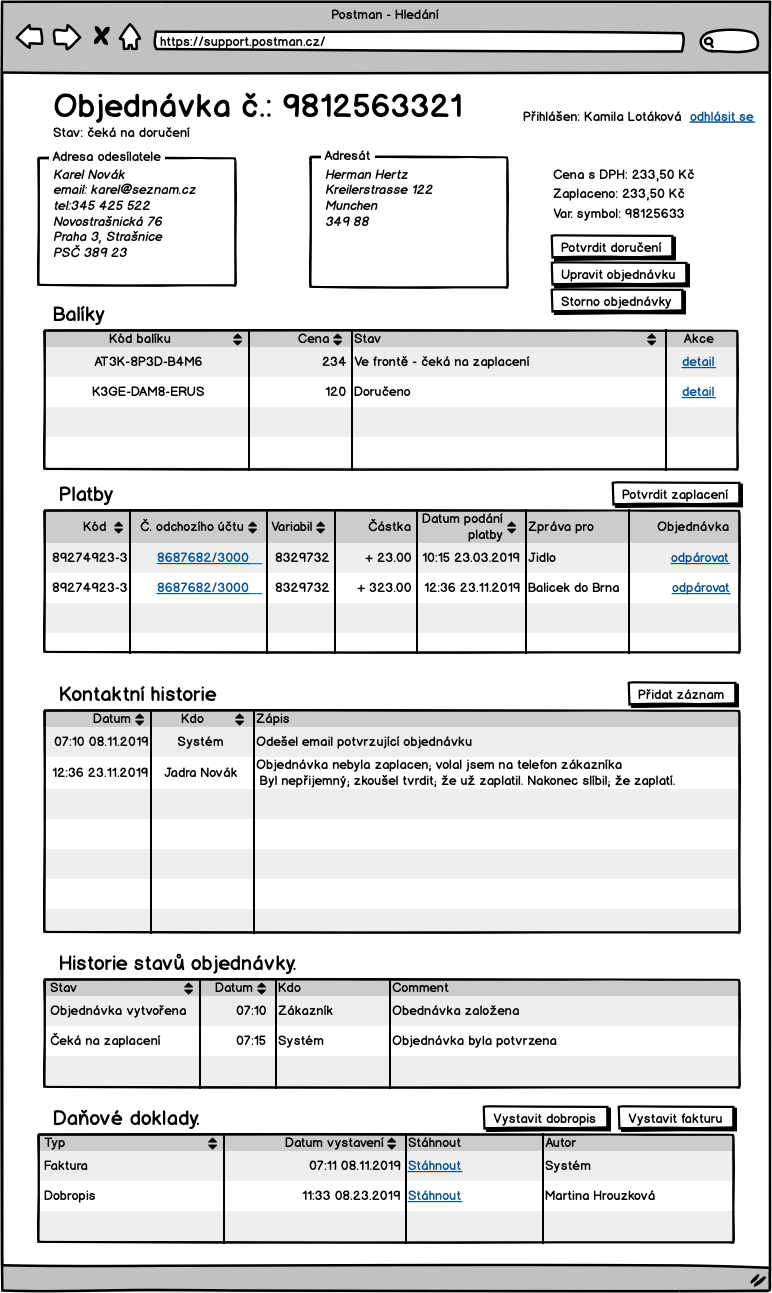
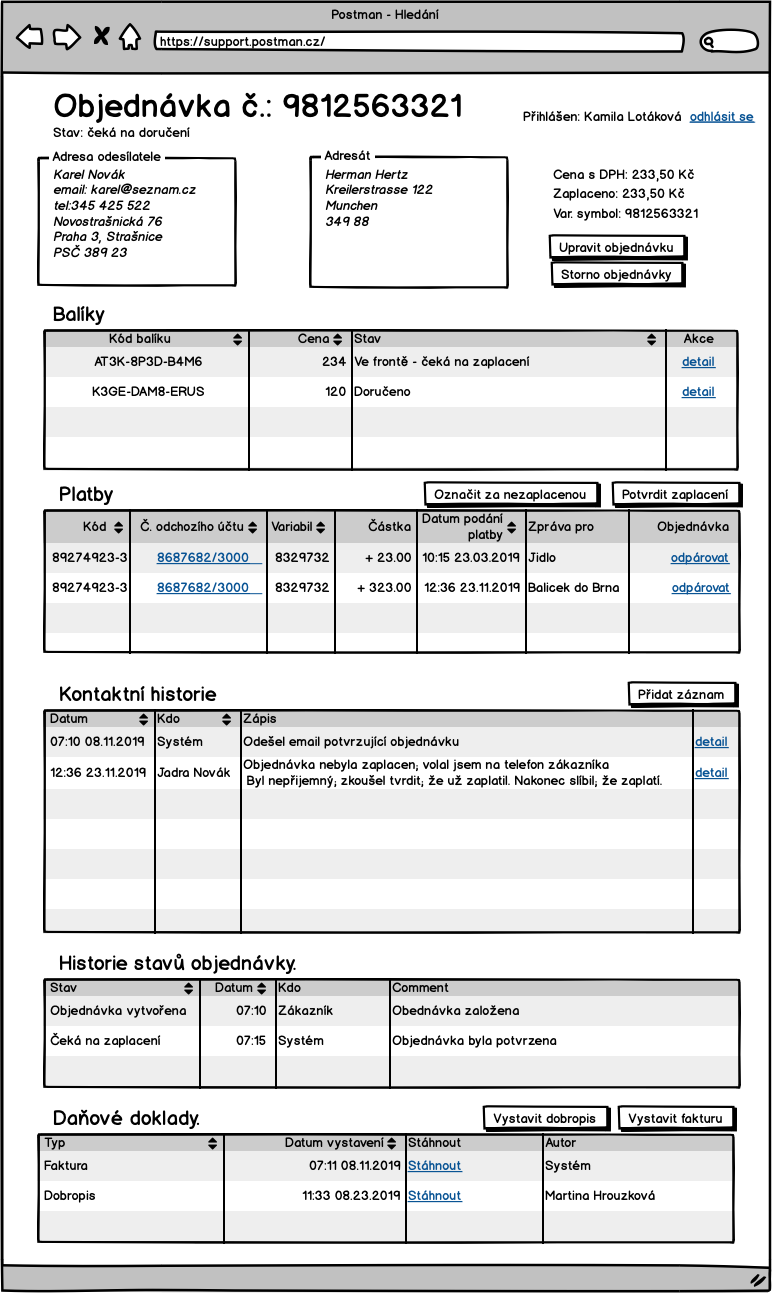
Deployed cf29bd2 with MkDocs version: 1.1

diff --git a/uc-50/index.html b/uc-50/index.html
@@ -791,8 +791,14 @@
 <ol>
 <li>Pracovník si z hlavního rozcestníku zobrazí balíky v chybové frontě.</li>
 <li>Zobrazí se stránka se seznamem balíků ve stavu <code>Chyba</code> a zároveň přiřazených na podpoře.</li>
-<li>Každý balík si pracovník otevře a pokusí se najít řešení.</li>
-<li>Pokud najde řešení, pak balík převede do nového stavu.</li>
+<li>Každý záznam si pracovník otevře.</li>
+<li>Systém zobrazí příslušnou obrazovku podle druhu chyby:<ul>
+<li><a href="../screens/#S-053">Poškozený balík S-053</a>.</li>
+<li>Záznám o tom, že se balík nepodařilo doručit.</li>
+<li>Obecná chyba <a href="../screens/#S-054">při zpracování S-054</a>.</li>
+</ul>
+</li>
+<li>Pracovník podpory se pokusí se najít řešení. Pokud najde řešení, pak balík převede do nového stavu.</li>
 <li>Pokud má pouze doplňující dotaz, nebo je řešení složitější pak to popíše k detailu chyby a tu přiřadí k řešení na dispečera.</li>
 <li>Hotovo. </li>
 </ol>
@@ -801,7 +807,7 @@
 <li>Nespárovaný balík.<ul>
 <li>Balík nemá kód balíku ani správně napsanou adresu odesílate.</li>
 <li>Pracovník se pokusí dohledat odpovídající objednávku třeba podle části adresy odesílatele, nebo porovnat se seznamem zaplacených objednávek bez balíků, nebo porovnat rozměry na objednávce a u nalezeného balíku.</li>
-<li>Pokud to je možné balík napáruje na objednávku.</li>
+<li>Pokud to je možné balík <a href="./#UC-52">napáruje na objednávku UC-52</a>.</li>
 </ul>
 </li>
 <li>Nedoručitelný balík:<ul>
@@ -809,7 +815,7 @@
 </ul>
 </li>
 <li>Poškozený balík:<ul>
-<li>Pracovník zkusí kontaktovat zákazníka a domluví další postup.</li>
+<li>Pracovník zkusí <a href="./#UC-56">vyřešit poškozený balík UC-56</a>.</li>
 </ul>
 </li>
 </ul>
@@ -817,13 +823,11 @@
 <h2 id="uc-56-reseni-poskozeneho-baliku"><a name="UC-56"></a>UC-56 - Řešení poškozeného balíku</h2>
 <p>Předpoklady:</p>
 <ul>
-<li>Pracovník podpory má otevřenou stránku <a href="../screens/#S-05">detailu balíku S-05</a>.</li>
-<li>V seznamu zázkamu o poškození bude jeden nezpracovaný.</li>
+<li>Pracovník podpory má otevřenou stránku <a href="../screens/#S-053">záznamu poškození S-053</a>.</li>
 <li>Balík je ve frontě chyba ve stavu <code>Poškozený balík</code>.</li>
 </ul>
 <p>Kroky:</p>
 <ol>
-<li>Klikne na detail záznamu poškození a zobrazí se mu <a href="../screens/#S-053">S-053</a>.</li>
 <li>Pracovník podle fotek a popisu posoudí míru poškození.</li>
 <li>Pokud uzná za vhodné kontaktuje zákazníka a domluví s ním další postup a výsledek zaznamená do kontaktní historie.</li>
 <li>Když pracovník ví jak postupovat, další postup popíše do pole na stránce <a href="../screens/#S-053">S-053</a>.</li>

diff --git a/screens/index.html b/screens/index.html
@@ -979,18 +979,18 @@
 <p><img alt="Hledání balíků" src="../imgs/s-03-search.png" title="Hledání balíků" /></p>
 <p>Do pole hledat, pujde zadat část libovolné adresy, kód balíku, telefon zákazníka, čast jména, prostě cokoliv. </p>
 <h2 id="s-04-detail-objednavky"><a name="S-04"></a>S-04 - Detail objednávky</h2>
-<p>Obrazovka obsahuje několik samostatných sekcí:</p>
+<p>Stránku může být rozdělená pomocí záložek na více. Pokud odkaz na detail balíku není aktivní znamená to, že balík fyzicky nemáme a ani jsme neměli. Obrazovka obsahuje několik samostatných sekcí:</p>
 <ul>
 <li>Obecné infromace o objednávce</li>
 <li>Platby</li>
 <li>Kontaktní historie</li>
 <li>Historie stavů</li>
 <li>Daňové doklady</li>
+<li>Číslo objednávky a variabilní symbol jsou stejné hodnoty.</li>
 </ul>
-<p>Stránku může být rozdělená pomocí záložek na více. Pokud odkaz na detail balíku není aktivní znamená to, že balík fyzicky nemáme a ani jsme neměli.</p>
 <p><img alt="Detail objednávky" src="../imgs/s-04-order-details.png" title="Detail objednávky" /></p>
-<p>Detaily záznamů kontaktní historie na této stránce nejsou vidět. Pro ně by měla vzniknout nová stránka s jejich seznamem a zde pribýt odkaz na ní.</p>
-<p>Číslo objednávky a variabilní symbol jsou stejné hodnoty.</p>
+<p>Detaily záznamů kontaktní historie na této stránce nejsou vidět. Pro ně by měla vzniknout nová stránka s jejich seznamem a zde přibýt odkaz na ní.</p>
+<p>Tlačítka zde budou zobrazená podel aktuálních možností. Například tlačítko "Označit za nezaplacenou" nebude vidět ve stavu objednávky <code>Nezaplacená</code>.</p>
 <h2 id="s-041-potvrzeni-odparovani-platby"><a name="S-041"></a>S-041 - Potvrzení odpárování platby</h2>
 <p>Pokud pracovník podpory na obrazovce <a href="../imgs/s-04-order-details.png" title="Detail objednávky">S-04 detail objednávky</a> stiskne odpárovat, tak se mu zobrazí potvrzovací dialog:</p>
 <p><img alt="Potvrzení odpárování platby" src="../imgs/s-04-order-details-confirm.png" title="Potvrzení odpárování platby" /></p>

diff --git a/states/index.html b/states/index.html
@@ -606,10 +606,10 @@
 <p>V tomto stavu máme objednávku kompletně ukončenou, všechny doručované balíky jsou také ukončeny a finance vypořádány.</p>
 <p>Přechod do tohoto stavu provede systém automaticky ve chvílí, kdy je poslední balík objednávky v koncovém stavu. Toto musí fungovat i naopak, pokud se později ručním zásahem, nebo procesem nějaký balík přesune do jiného stavu než koncového, pak se musí i objednávka přesunout do stavu <code>Doručovaná</code>.</p>
 <h3 id="dalsi-prechody-zpet">Další přechody zpět</h3>
-<p>Pro zpětné manuální přechody:</p>
+<p>Pro zpětné přechody:</p>
 <ul>
-<li><code>Ukončená</code> --&gt; <code>Doručovaná</code></li>
-<li><code>Doručovaná</code> --&gt; <code>Nezaplacená</code></li>
+<li><code>Ukončená</code> --&gt; <code>Doručovaná</code> - tento přechod se bude dít automaticky, na základě změny stavu balíku.</li>
+<li><code>Doručovaná</code> --&gt; <code>Nezaplacená</code> - pro tento přechod bude na stránce tlačítko.</li>
 </ul>
 <p>Budou na stránce <a href="../screens/#S-04">detailu objednávky S-04</a> příslušná tlačítka. </p>
 <h2 id="stavy-baliku">Stavy balíku</h2>

diff --git a/analyza/index.html b/analyza/index.html
@@ -583,7 +583,7 @@
 <p><img alt="Actors" src="../diagrams/out/actors.png" title="Role" /></p>
 <h3 id="zakaznik">Zákazník</h3>
 <p>Zákazník naší doručovací služby. Může to být fyzická osoba nebo společnost.</p>
-<p><img alt="Co muze delat Zakaznik" src="../diagrams/out/ucs-zakaznik.png" title="UCS for Zakaznik" /></p>
+<p><img alt="Co může dělat Zákazník" src="../diagrams/out/ucs-zakaznik.png" title="UCS pro zákazníka" /></p>
 <p>Zákaznik můze:</p>
 <ul>
 <li>UC-04 <a href="../uc-00/#uc-04">Registrovat balík</a>.</li>

diff --git a/index.html b/index.html
@@ -477,6 +477,7 @@
 <ul>
 <li>email</li>
 <li>telefon</li>
+<li>web</li>
 </ul>
 <h2 id="business-otazky">Business otázky</h2>
 <ul>
